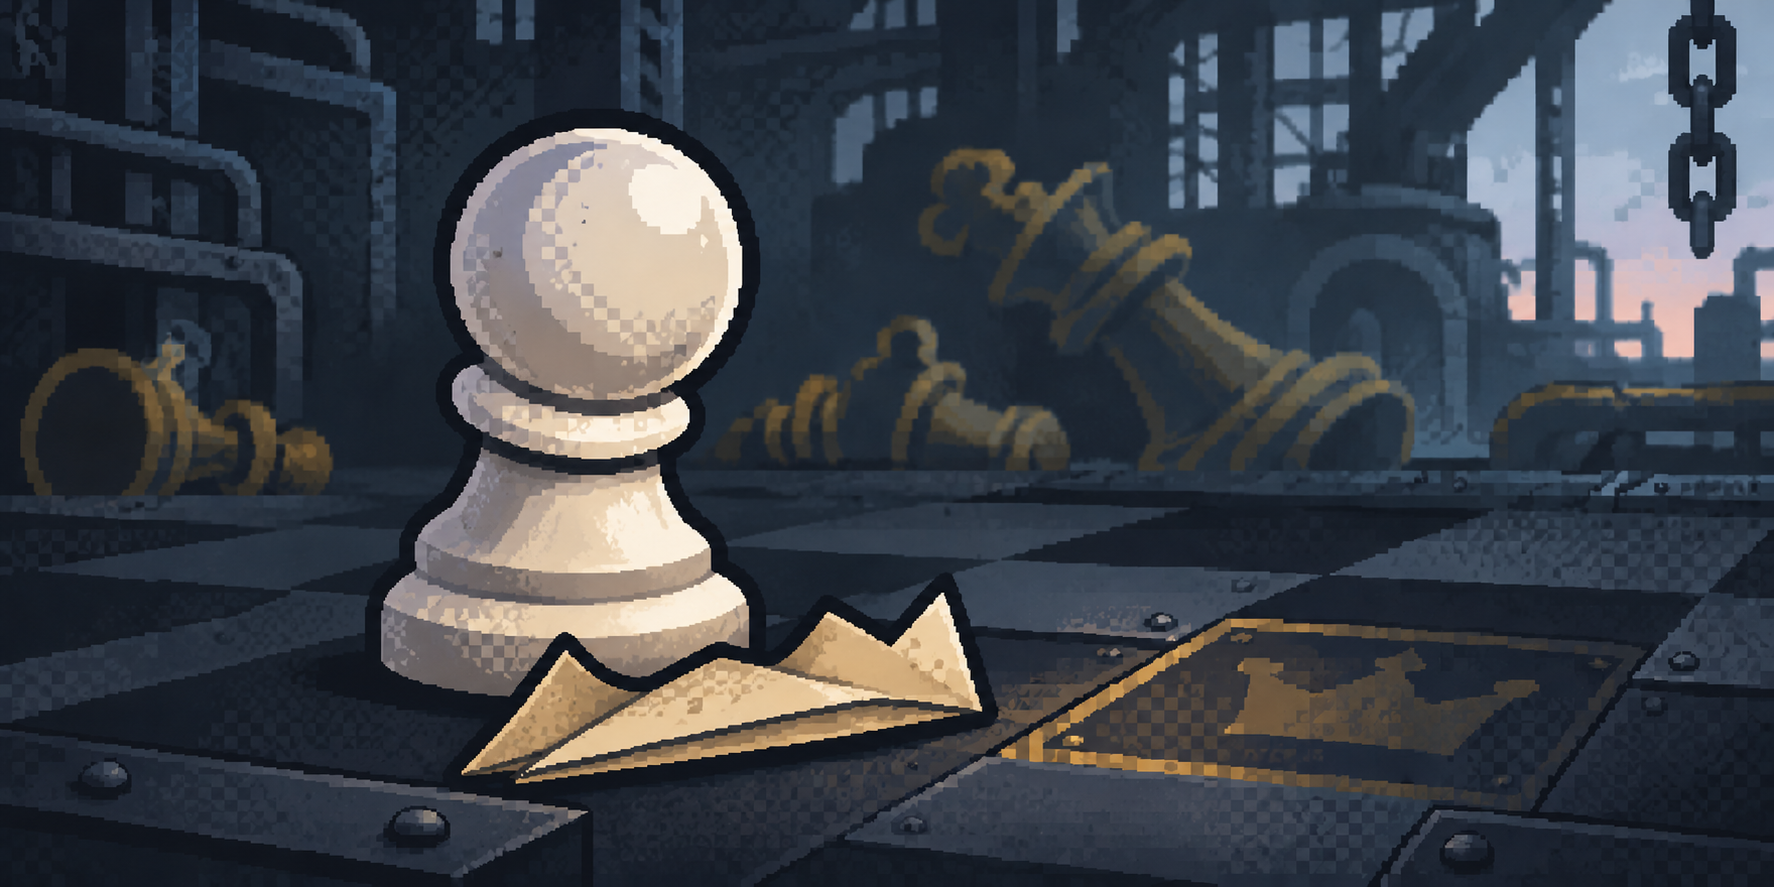
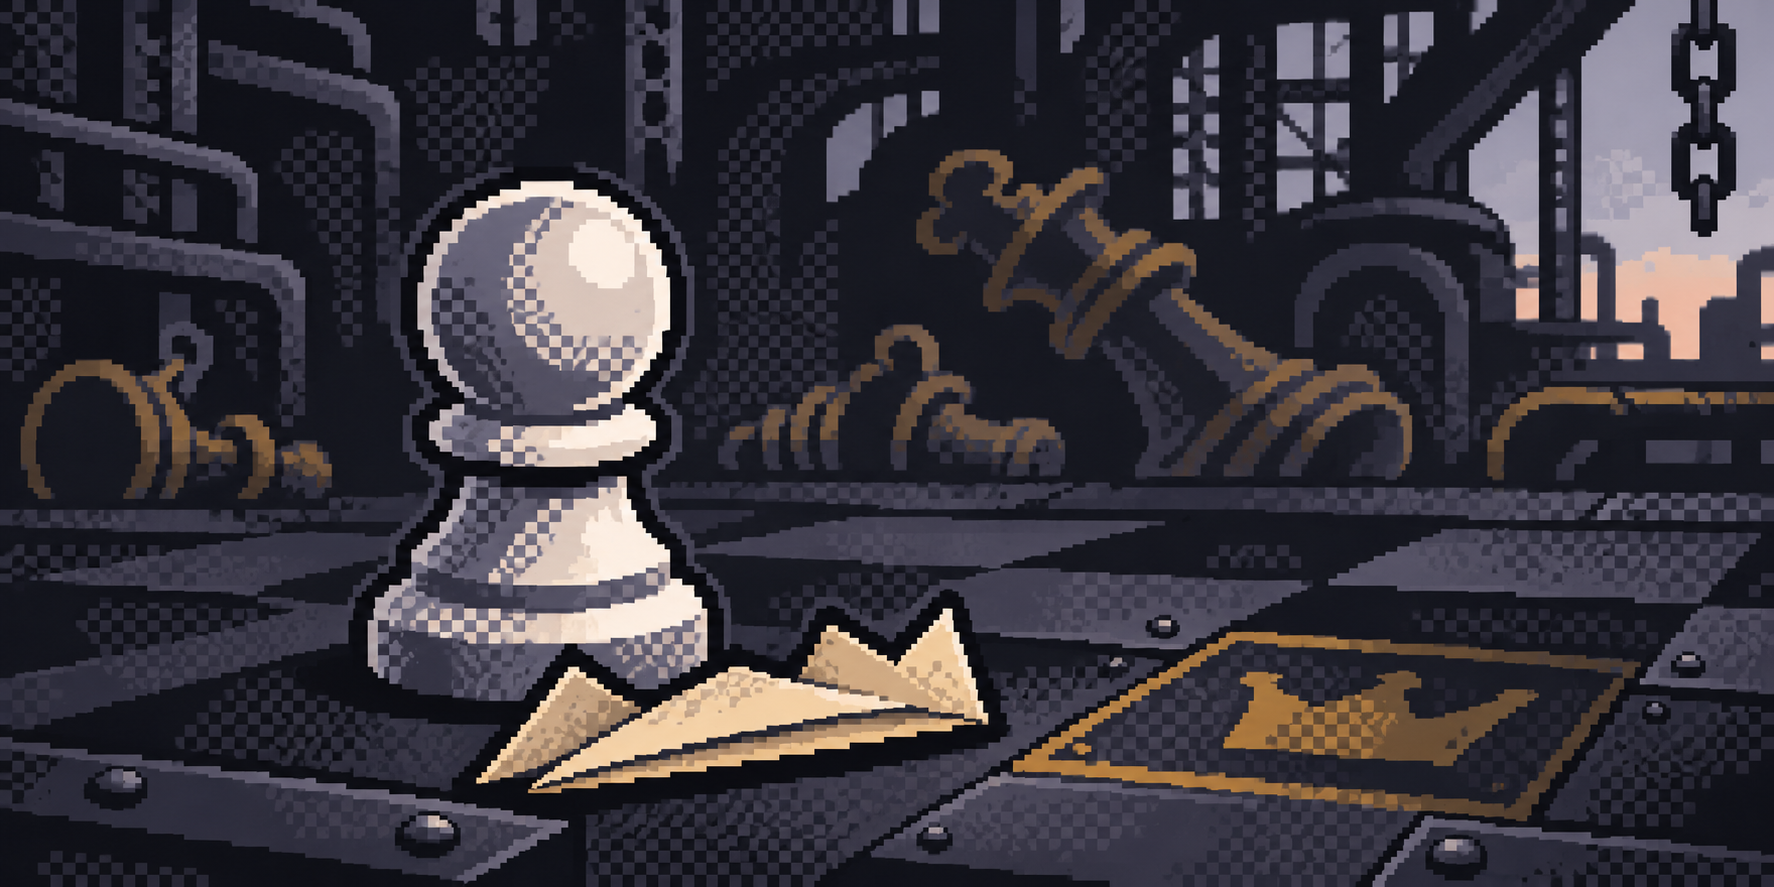
Lock cut-scene style in prompts for re-orders 3-5; import ending cuts 1 and 3 (D-307)
받은 해방 1(새 판) · 해방 3 「폰 둘」을 넣고, 3 · 4 · 5위 컷 프롬프트를 화풍 고정으로 고쳤습니다. 받은 「폰 둘」을 화풍 정답으로 붙이고 도트 크기 · 디더 · 색 수를 못 박았으며, 기물 얼굴 · 붓질 · 빛 번짐을 금지했습니다.

Claude-Session: https://claude.ai/code/session_011jC4ZCDKW43H5FzLWnYVpe

diff --git a/tools/order/order_page.py b/tools/order/order_page.py
@@ -21,7 +21,10 @@ ATTACH = [
     ('①', '기물 도트', 'build-res/pieces-small-source.png', 900),
     ('②', '화풍 기준 — 쇳물 위 그림자 킹', 'build-res/order/V-07-pact-source.png', 720),
     ('③', '게임 속 검은 킹 도트 (반장 · 도금왕만)', 'build-res/order/K-black-new-source.png', 0),
+    ('⑤', '화풍 정답 「폰 둘」 — 컷 그림은 ② 대신 이것 (D-307)', 'build-res/order/E-03b-ending-3-source.png', 720),
 ]
+# 받았지만 화풍이 어긋나 다시 받는 그림 (D-307) — 파일이 있어도 「다시 받기」로 보인다
+REDO = {'promote', 'promote-betray', 'promote-rule'}
 
 
 def data_uri(path, width):
@@ -148,7 +151,7 @@ def render_blocks(blocks, start_id):
 
 def main(out_path):
     secs = parse()
-    have = {f[:-4] for f in os.listdir(SCENES) if f.endswith('.png')}
+    have = {f[:-4] for f in os.listdir(SCENES) if f.endswith('.png')} - REDO
     if os.path.isdir(EXT):
         have |= {'ext:' + f[:-4] for f in os.listdir(EXT) if f.endswith('.png')}
     intro = next(s for s in secs if s['head'].startswith('0.'))
@@ -180,6 +183,8 @@ def main(out_path):
         total += len(fs)
         got += n_have
         status = '받음' if fs and n_have == len(fs) else (f'{n_have}/{len(fs)} 받음' if n_have else '대기')
+        if any(f in REDO for f in fs):
+            status = '다시 받기 (화풍)'
         cls = 'done' if status == '받음' else ''
         nav.append(f'<a href="#r{g["rank"]}" class="{cls}"><span>{g["rank"]}</span>{inline(g["head"].split("→")[0].split(" (")[0].strip())}</a>')
         head_html, pid = render_blocks(g['sec']['blocks'], pid)

diff --git a/docs/asset-order-master.md b/docs/asset-order-master.md
@@ -34,6 +34,7 @@
 - ② 화풍 기준(쇳물 위 그림자 킹): `build-res/order/V-07-pact-source.png`
 - ③ (반장 · 도금왕만) 지금 게임 속 검은 킹 도트: `build-res/order/K-black-new-source.png`
 - ④ (B-04a~d만) 받은 B-04 그림 자체
+- ⑤ 화풍 정답 「폰 둘」: `build-res/order/E-03b-ending-3-source.png` — 컷 그림(3 · 4 · 5위 다시 받기부터)은 ② 대신 이것 (D-307)
 
 ### 화면 비율 (상자마다 이미 적혀 있다)
 | 종류 | 비율 · 크기 | 이유 |
@@ -100,17 +101,19 @@
 ```
 
 ## 3위 · C-01 금 왕관으로 뻗는 손  →  `promote.png`
-첨부: ① ②. 쓰는 곳: `docs/script.md` S7-1 — 「승급한다」를 누른 순간(압력 0 ~ 12, 클리어마다). 「손이 먼저 눌렀다. 금 왕관은 생각보다 가벼웠다.」
+첨부: ① 기물 도트 · ⑤ 화풍 정답 「폰 둘」(`build-res/order/E-03b-ending-3-source.png`) — **② 쇳물 그림은 붙이지 않는다** (D-307: ②만 붙이면 생성기가 제 화풍으로 그린다). 쓰는 곳: `docs/script.md` S7-1 — 「승급한다」를 누른 순간(압력 0 ~ 12, 클리어마다). 「손이 먼저 눌렀다. 금 왕관은 생각보다 가벼웠다.」
 
 ```
 같은 게임의 컷 한 장을 그려 줘. 장면 이름: 「승급」. 감정: 유혹 · 손이 먼저 가는 서늘함.
 
-[세트 규칙]
-- 첨부한 두 번째 그림(쇳물 위 그림자 킹)과 같은 도트 굵기 · 같은 체크무늬 디더링 · 기물마다 같은 검은 바깥선. 색과 빛은 아래 [색]을 따른다.
-- 기물 모양은 첫 번째 첨부 그림. 사람은 없다. 기물에 얼굴은 그리지 않는다.
-- 한 그림에 색은 20가지 이내, 그라데이션 · 흐림 · 광택 금지 — 명암은 색 단계와 디더링으로만.
-- 가로 2 : 세로 1, 2048×1024 정도. 글자 · 로고 · 워터마크 · 테두리 없음. 가장자리까지 장면으로 꽉 채운다.
-- 위아래 10%는 잘릴 수 있다. 아래 4분의 1은 어둡고 단순하게(글이 얹힌다).
+[화풍 고정 — 가장 중요. 이걸 어기면 다시 그린다]
+- 첨부한 두 번째 그림(⑤ 「폰 둘」)이 화풍 정답이다. 그 그림과 **같은 도트 크기**(가로 약 290도트 — 도트 한 칸이 6×6픽셀쯤 되는 굵은 도트) · **같은 체크무늬 디더링** · **같은 색 수(16색 안팎)** · **같은 단단한 단색 면**으로 그린다. 같은 화가가 같은 날 그린 연작처럼.
+- 기물은 첫 번째 첨부(① 기물 도트)의 모양 그대로 — 선반에서 깎은 단순한 체스 말. **눈 · 입 · 코 · 콧구멍 · 근육 · 털 · 갈기 결 · 표정 없음.** 나이트도 ①처럼 말 머리 실루엣 한 덩어리일 뿐, 진짜 말처럼 그리지 않는다.
+- 기물마다 ⑤처럼 **굵은 검은 바깥선(1 ~ 2도트)**. 명암은 기물 하나에 3 ~ 4단, 빛은 한쪽에서.
+- 금지: 붓질 · 수채 · 유화 느낌, 부드러운 그라데이션 · 빛 번짐(glow) · 흐림 · 광택 반사, 잔글씨 같은 세밀한 질감, 사실적인 사물 묘사. 빛은 디더링 몇 줄과 색 단계로만.
+- 가로 2 : 세로 1, 2048×1024 정도. 글자 · 숫자 · 로고 · 워터마크 · 테두리 없음. 가장자리까지 장면으로 꽉 채운다. 위아래 10%는 잘릴 수 있고, 아래 4분의 1은 어둡고 단순하게(글이 얹힌다).
+- 사람은 없다. 감정은 기물의 자세 · 방향 · 빛으로만.
+- 폰은 **앞(오른쪽)의 금 왕관 쪽으로** 몸이 기울어 있다 — 뒤로 젖히거나 물러서는 자세 금지. 손이 먼저 가는 유혹.
 
 [구도와 장면]
 승급 칸 위를 아주 가까이서 본 클로즈업. 체스판 끝 줄의 칸 하나(왕관 문양이 금빛으로 빛난다) 위에 작은 흰 폰이 서 있다. 그 앞 공중에 떠 있는 금 왕관 하나를 향해 폰의 몸이 앞으로 기울어 있다 — 막 닿기 직전. 폰의 머리에서 골판지 종이 왕관이 미끄러져 떨어지는 중(공중에). 화면 오른쪽 가장자리, 어둠 속에 금칠한 거대한 킹(도금왕)의 실루엣 일부가 내려다본다. 화면 아래쪽 어둠 속에 흰 기물 몇의 머리 실루엣이 올려다본다.
@@ -126,17 +129,19 @@
 ```
 
 ## 4위 · C-04 실려 가는 세트 — 배신  →  `promote-betray.png`
-첨부: ① ②. 쓰는 곳: `docs/script.md` S7-5 — 승급한 그가 금칠을 입는 동안, 킹을 잃은 세트(함께 올라온 동료들)가 용광로 라인으로 실려 간다. **이 게임에서 가장 무거운 컷.**
+첨부: ① 기물 도트 · ⑤ 화풍 정답 「폰 둘」(`build-res/order/E-03b-ending-3-source.png`) — **② 쇳물 그림은 붙이지 않는다** (D-307: ②만 붙이면 생성기가 제 화풍으로 그린다). 쓰는 곳: `docs/script.md` S7-5 — 승급한 그가 금칠을 입는 동안, 킹을 잃은 세트(함께 올라온 동료들)가 용광로 라인으로 실려 간다. **이 게임에서 가장 무거운 컷.**
 
 ```
 같은 게임의 컷 한 장을 그려 줘. 장면 이름: 「실려 가는 세트」. 감정: 배신 · 죄책 · 말없는 원망.
 
-[세트 규칙]
-- 첨부한 두 번째 그림(쇳물 위 그림자 킹)과 같은 도트 굵기 · 같은 체크무늬 디더링 · 기물마다 같은 검은 바깥선. 색과 빛은 아래 [색]을 따른다.
-- 기물 모양은 첫 번째 첨부 그림(체스 기물 도트). 사람은 없다. 기물에 얼굴은 그리지 않는다 — 감정은 자세와 방향으로만.
-- 한 그림에 색은 20가지 이내, 그라데이션 · 흐림 · 광택 금지 — 명암은 색 단계와 디더링으로만.
-- 가로 2 : 세로 1, 2048×1024 정도. 글자 · 숫자 · 로고 · 워터마크 · 테두리 없음. 가장자리까지 장면으로 꽉 채운다.
-- 위아래 10%는 잘릴 수 있다. 아래 4분의 1은 어둡고 단순하게(글이 얹힌다).
+[화풍 고정 — 가장 중요. 이걸 어기면 다시 그린다]
+- 첨부한 두 번째 그림(⑤ 「폰 둘」)이 화풍 정답이다. 그 그림과 **같은 도트 크기**(가로 약 290도트 — 도트 한 칸이 6×6픽셀쯤 되는 굵은 도트) · **같은 체크무늬 디더링** · **같은 색 수(16색 안팎)** · **같은 단단한 단색 면**으로 그린다. 같은 화가가 같은 날 그린 연작처럼.
+- 기물은 첫 번째 첨부(① 기물 도트)의 모양 그대로 — 선반에서 깎은 단순한 체스 말. **눈 · 입 · 코 · 콧구멍 · 근육 · 털 · 갈기 결 · 표정 없음.** 나이트도 ①처럼 말 머리 실루엣 한 덩어리일 뿐, 진짜 말처럼 그리지 않는다.
+- 기물마다 ⑤처럼 **굵은 검은 바깥선(1 ~ 2도트)**. 명암은 기물 하나에 3 ~ 4단, 빛은 한쪽에서.
+- 금지: 붓질 · 수채 · 유화 느낌, 부드러운 그라데이션 · 빛 번짐(glow) · 흐림 · 광택 반사, 잔글씨 같은 세밀한 질감, 사실적인 사물 묘사. 빛은 디더링 몇 줄과 색 단계로만.
+- 가로 2 : 세로 1, 2048×1024 정도. 글자 · 숫자 · 로고 · 워터마크 · 테두리 없음. 가장자리까지 장면으로 꽉 채운다. 위아래 10%는 잘릴 수 있고, 아래 4분의 1은 어둡고 단순하게(글이 얹힌다).
+- 사람은 없다. 감정은 기물의 자세 · 방향 · 빛으로만.
+- 나이트는 ①의 나이트 실루엣 그대로(얼굴 없음), 몸만 포장대 쪽으로 돌려 올려다본다.
 
 [구도와 장면]
 화면을 대각선으로 나눈 구도. 오른쪽 위: 높은 포장대 위, 금칠이 막 몸을 덮어 가는 작은 흰 폰 하나(아래쪽은 아직 흰색, 위쪽부터 금으로 덮이는 중). 그는 아래를 내려다보지 않고 등을 반쯤 돌리고 있다. 왼쪽 아래: 집게가 들어 올린 체스 상자 하나가 용광로로 이어지는 컨베이어에 실려 멀어져 간다. 상자 안에 흰 기물 몇(폰 · 비숍 · 룩)이 서 있고, 그중 흰 나이트 하나만 몸을 돌려 포장대 쪽을 올려다본다(몸에 긁힌 자국). 컨베이어 끝, 화면 왼쪽 가장자리에 용광로 아가리의 주황빛.
@@ -152,20 +157,22 @@
 ```
 
 ## 5위 · C-02 조항 새김 — 새 도금왕  →  `promote-rule.png`
-첨부: ① ②. 쓰는 곳: `docs/script.md` S7-6 · 7 (클리어마다, 배신 컷 다음) · S8 엔딩 A(색만 바꿔 재사용). 규격판에 새기는 글자는 게임이 그 위에 얹는다 — **그림의 규격판은 긁힌 선만.**
+첨부: ① 기물 도트 · ⑤ 화풍 정답 「폰 둘」(`build-res/order/E-03b-ending-3-source.png`) — **② 쇳물 그림은 붙이지 않는다** (D-307: ②만 붙이면 생성기가 제 화풍으로 그린다). 쓰는 곳: `docs/script.md` S7-6 · 7 (클리어마다, 배신 컷 다음) · S8 엔딩 A(색만 바꿔 재사용). 규격판에 새기는 글자는 게임이 그 위에 얹는다 — **그림의 규격판은 긁힌 선만.**
 
 ```
 같은 게임의 컷 한 장을 그려 줘. 장면 이름: 「조항 새김」. 감정: 차가운 체념 · 되풀이.
 
-[세트 규칙]
-- 첨부한 두 번째 그림(쇳물 위 그림자 킹)과 같은 도트 굵기 · 같은 체크무늬 디더링 · 기물마다 같은 검은 바깥선. 색과 빛은 아래 [색]을 따른다.
-- 기물 모양은 첫 번째 첨부 그림(체스 기물 도트). 사람은 없다. 기물에 얼굴은 그리지 않는다.
-- 한 그림에 색은 20가지 이내, 그라데이션 · 흐림 · 광택 금지 — 명암은 색 단계와 디더링으로만.
-- 가로 2 : 세로 1, 2048×1024 정도. 글자 · 숫자 · 로고 · 워터마크 · 테두리 없음. 가장자리까지 장면으로 꽉 채운다.
-- 위아래 10%는 잘릴 수 있다. 아래 4분의 1은 어둡고 단순하게(글이 얹힌다).
+[화풍 고정 — 가장 중요. 이걸 어기면 다시 그린다]
+- 첨부한 두 번째 그림(⑤ 「폰 둘」)이 화풍 정답이다. 그 그림과 **같은 도트 크기**(가로 약 290도트 — 도트 한 칸이 6×6픽셀쯤 되는 굵은 도트) · **같은 체크무늬 디더링** · **같은 색 수(16색 안팎)** · **같은 단단한 단색 면**으로 그린다. 같은 화가가 같은 날 그린 연작처럼.
+- 기물은 첫 번째 첨부(① 기물 도트)의 모양 그대로 — 선반에서 깎은 단순한 체스 말. **눈 · 입 · 코 · 콧구멍 · 근육 · 털 · 갈기 결 · 표정 없음.** 나이트도 ①처럼 말 머리 실루엣 한 덩어리일 뿐, 진짜 말처럼 그리지 않는다.
+- 기물마다 ⑤처럼 **굵은 검은 바깥선(1 ~ 2도트)**. 명암은 기물 하나에 3 ~ 4단, 빛은 한쪽에서.
+- 금지: 붓질 · 수채 · 유화 느낌, 부드러운 그라데이션 · 빛 번짐(glow) · 흐림 · 광택 반사, 잔글씨 같은 세밀한 질감, 사실적인 사물 묘사. 빛은 디더링 몇 줄과 색 단계로만.
+- 가로 2 : 세로 1, 2048×1024 정도. 글자 · 숫자 · 로고 · 워터마크 · 테두리 없음. 가장자리까지 장면으로 꽉 채운다. 위아래 10%는 잘릴 수 있고, 아래 4분의 1은 어둡고 단순하게(글이 얹힌다).
+- 사람은 없다. 감정은 기물의 자세 · 방향 · 빛으로만.
+- 금칠 킹은 ①의 킹 실루엣에 금을 덧칠한 것(십자가 머리). 팔 · 손은 없다 — 끌은 규격판에 꽂혀 있고 킹이 그 앞에 기대 서 있다.
 
 [구도와 장면]
-포장대 옆을 비스듬히 본 중간 거리. 금칠이 갓 마른 킹 하나(받침에 금이 흘러내린 자국, 왕관 머리 십자가)가 포장대 옆 벽에 박힌 커다란 철 규격판 앞에 서서, 끌 같은 공구로 한 줄을 새기고 있다. 규격판에는 이미 새겨진 줄 몇 개가 보이지만 글자는 읽히지 않는다(긁힌 선으로만). 아래쪽 빈 줄이 여럿 남아 있다. 화면 위쪽, 천장에 매달린 붉은 경고등이 깜빡이고, 킹의 다른 팔이 그 스위치 쪽으로 뻗어 있다. 발치 바닥에 접힌 골판지 종이 왕관 하나가 떨어져 있다.
+포장대 옆을 비스듬히 본 중간 거리. 금칠이 갓 마른 킹 하나(받침에 금이 흘러내린 자국, 왕관 머리 십자가)가 포장대 옆 벽에 박힌 커다란 철 규격판 앞에 서서, 방금 새긴 줄 앞에 서 있다 — 끌 하나가 그 줄 끝에 꽂힌 채 남아 있다. 규격판에는 이미 새겨진 줄 몇 개가 보이지만 글자는 읽히지 않는다(긁힌 선으로만). 아래쪽 빈 줄이 여럿 남아 있다. 화면 위쪽, 천장에 매달린 붉은 경고등이 깜빡이고, 경고등 스위치 줄이 킹의 왕관 십자가에 걸려 당겨져 있다(킹이 몸을 기울여 끈 것). 발치 바닥에 접힌 골판지 종이 왕관 하나가 떨어져 있다.
 
 [색]
 경고등의 붉은빛(#E5262F · #7A1218) 한 점이 화면 위에서 내려오고, 킹의 금칠(#8C6239 · #C89B3C · #FACC15)이 그 빛을 받는다. 규격판과 벽은 검은 철(#1C1D22 · #2F2E36 · #56545E). 종이 왕관만 누런 종이색(#E8DDB5).
